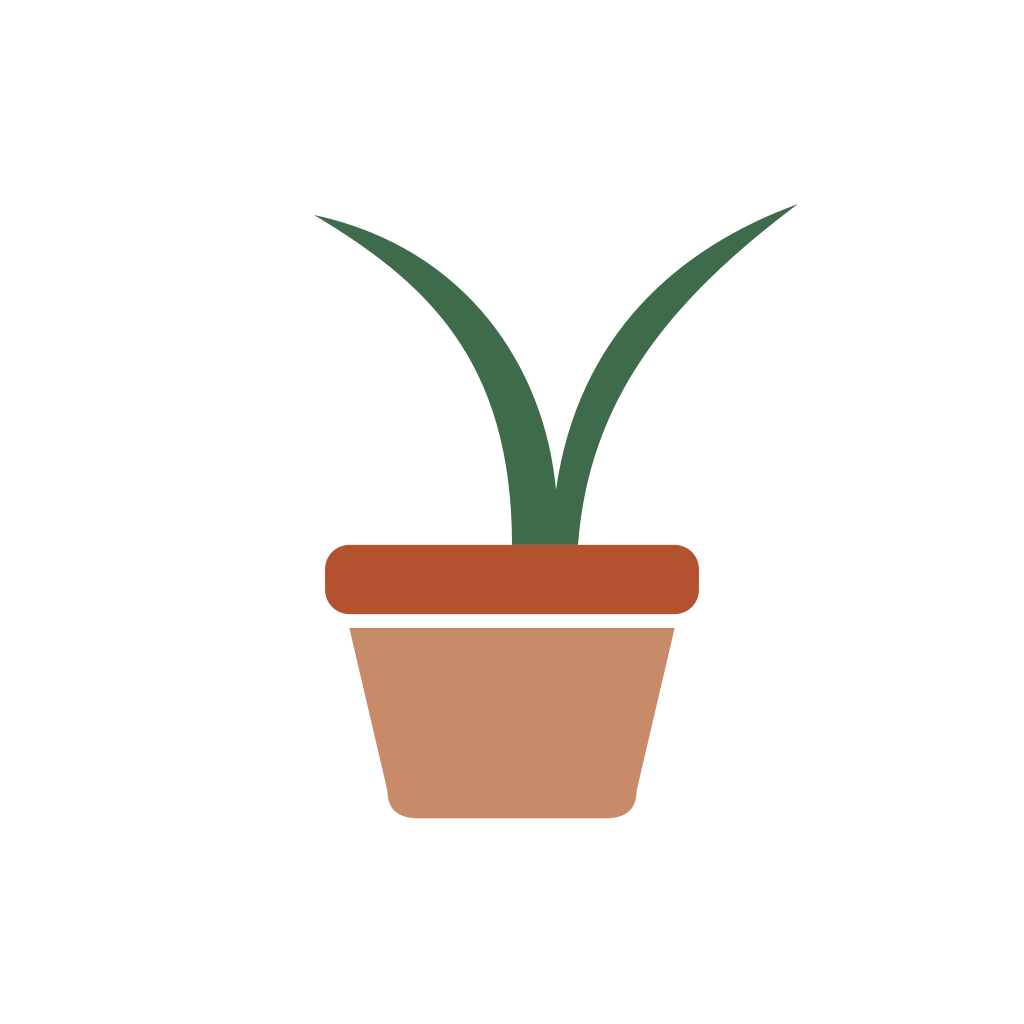
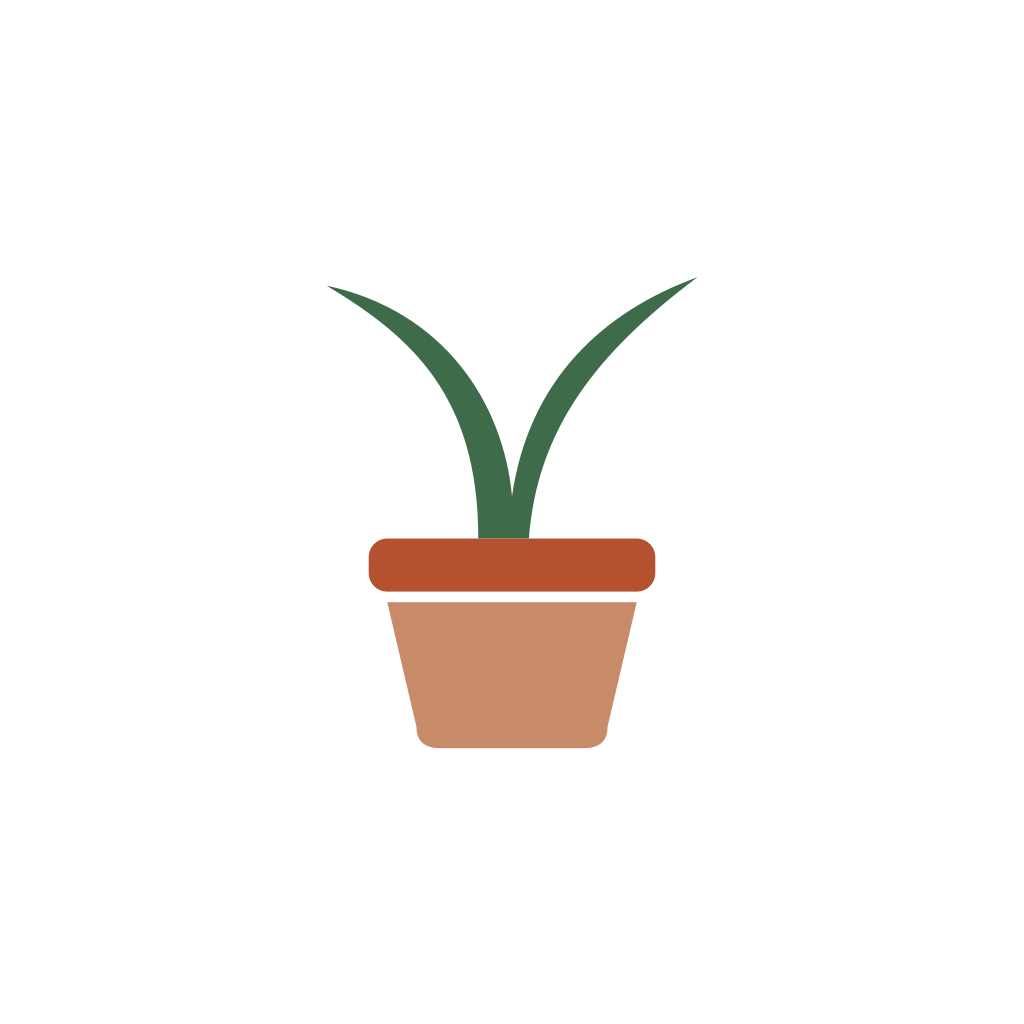
fix(brand): center the mark in its frame
The drawn leaf is asymmetric — it spans 20 to 64 in its own space, with its
centre at 42, while the pot is at 38. It is now fitted by its own centre, not by
the point where the stems start.

The framing was wrong too: the box still used cx 281, the centre of the artwork
from when the leaf leaned right, and pushed the whole composition 25 points to
the left. Measuring the pixels of the generated PNG, artwork, plant and pot now
all land on the same axis.

Changed region(s): [[0.3125, 0.5312, 0.6875, 0.8125], [0.3125, 0.2188, 0.75, 0.5312], [0.75, 0.1875, 0.7812, 0.2188]]

diff --git a/scripts/generate-icons.js b/scripts/generate-icons.js
@@ -13,10 +13,10 @@ const SITE = process.env.BROTO_WEB_DIR ?? path.join(__dirname, "..", "..", "web"
 const LEAF =
   "M38 39C38 22 30 15 20 9C34 12 41 23 42 34C44 20 53 12 64 8C52 17 45 26 44 39H38Z";
 const FIT =
-  "translate(256 306) scale(6.3529) translate(-38 -39)";
+  "translate(256 306) scale(6.3529) translate(-42 -39)";
 const BODY = "M-94 2 L94 2 L72 96 Q72 112 54 112 L-54 112 Q-72 112 -72 96 Z";
 
-const BOX = { cx: 256, cy: 287, height: 355 };
+const BOX = { cx: 256, cy: 286, height: 355 };
 
 function mark(plant, pot, rim) {
   return `
@@ -44,11 +44,11 @@ function canvas({ background, scale, flat, radius }) {
 
 const targets = [
   { file: "icon.png", size: 1024, background: SAND, scale: 0.74 },
-  { file: "android-icon-foreground.png", size: 1024, scale: 0.6 },
+  { file: "android-icon-foreground.png", size: 1024, scale: 0.46 },
   {
     file: "android-icon-monochrome.png",
     size: 1024,
-    scale: 0.6,
+    scale: 0.46,
     flat: "#000000",
   },
   { file: "splash-icon.png", size: 512, scale: 0.86 },

diff --git a/src/components/illustrations/Logo.tsx b/src/components/illustrations/Logo.tsx
@@ -3,7 +3,7 @@ import Svg, { G, Path, Rect } from "react-native-svg";
 import { theme } from "@/style/theme";
 
 const LEAF = "M38 39C38 22 30 15 20 9C34 12 41 23 42 34C44 20 53 12 64 8C52 17 45 26 44 39H38Z";
-const FIT = "translate(256 306) scale(6.3529) translate(-38 -39)";
+const FIT = "translate(256 306) scale(6.3529) translate(-42 -39)";
 const BODY = "M-94 2 L94 2 L72 96 Q72 112 54 112 L-54 112 Q-72 112 -72 96 Z";
 
 type LogoProps = {
@@ -18,7 +18,7 @@ export function Logo({ size = 64, tone = "color" }: LogoProps) {
   const rim = light ? theme.text.onPrimary : theme.primary.clay;
 
   return (
-    <Svg width={size} height={size} viewBox="135 103 292 367">
+    <Svg width={size} height={size} viewBox="110 103 292 367">
       <G transform={FIT} fill={plant}>
         <Path d={LEAF} />
       </G>
